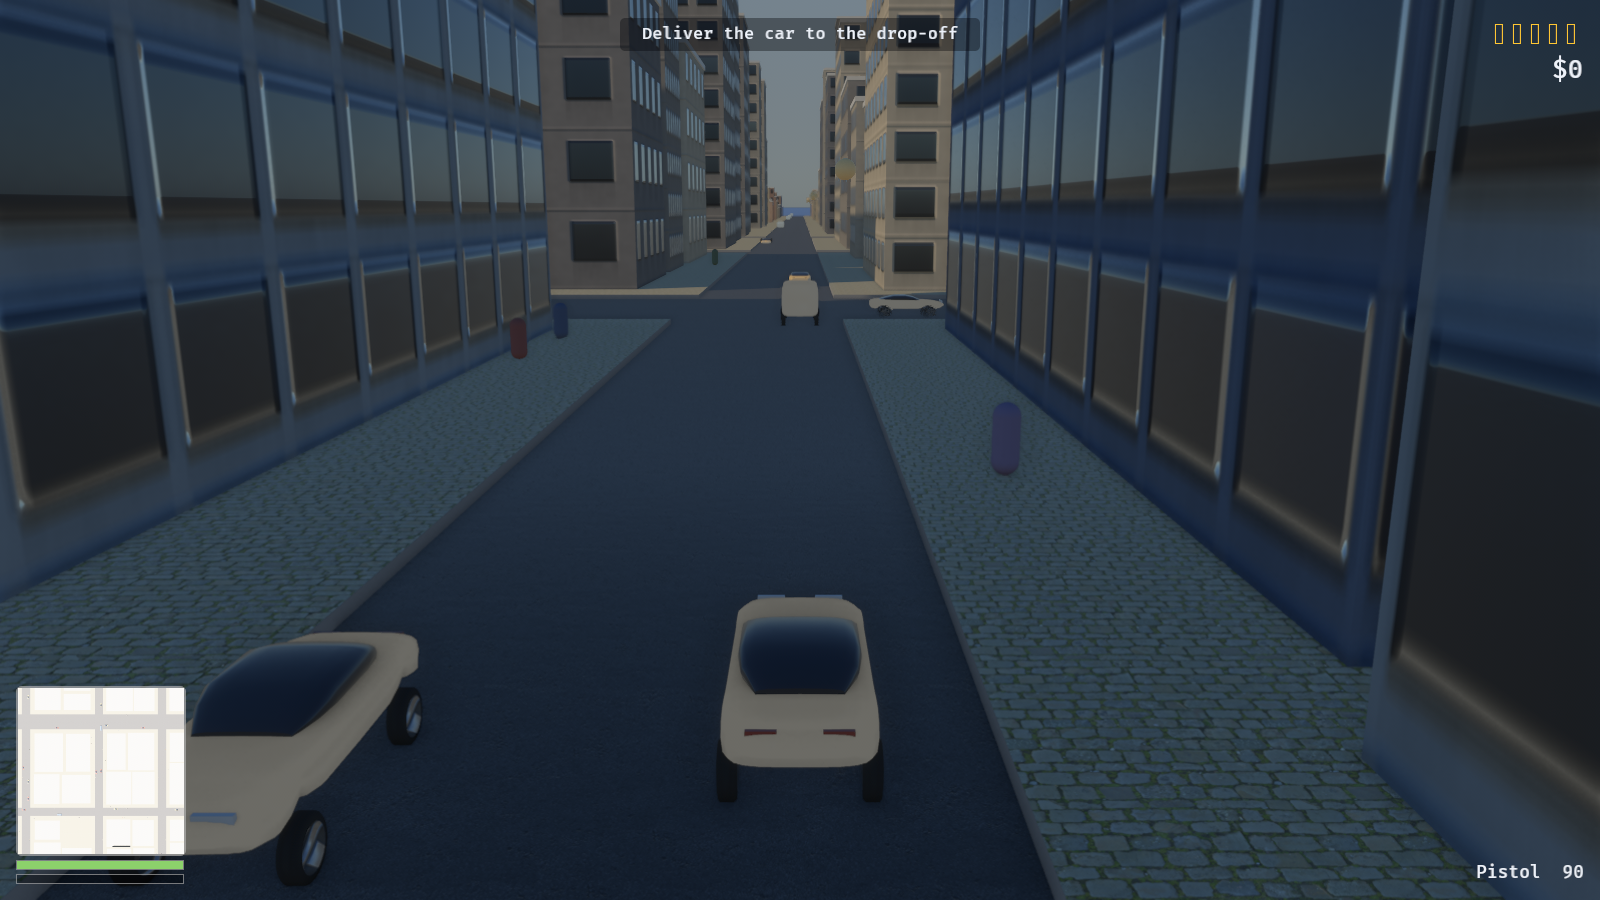
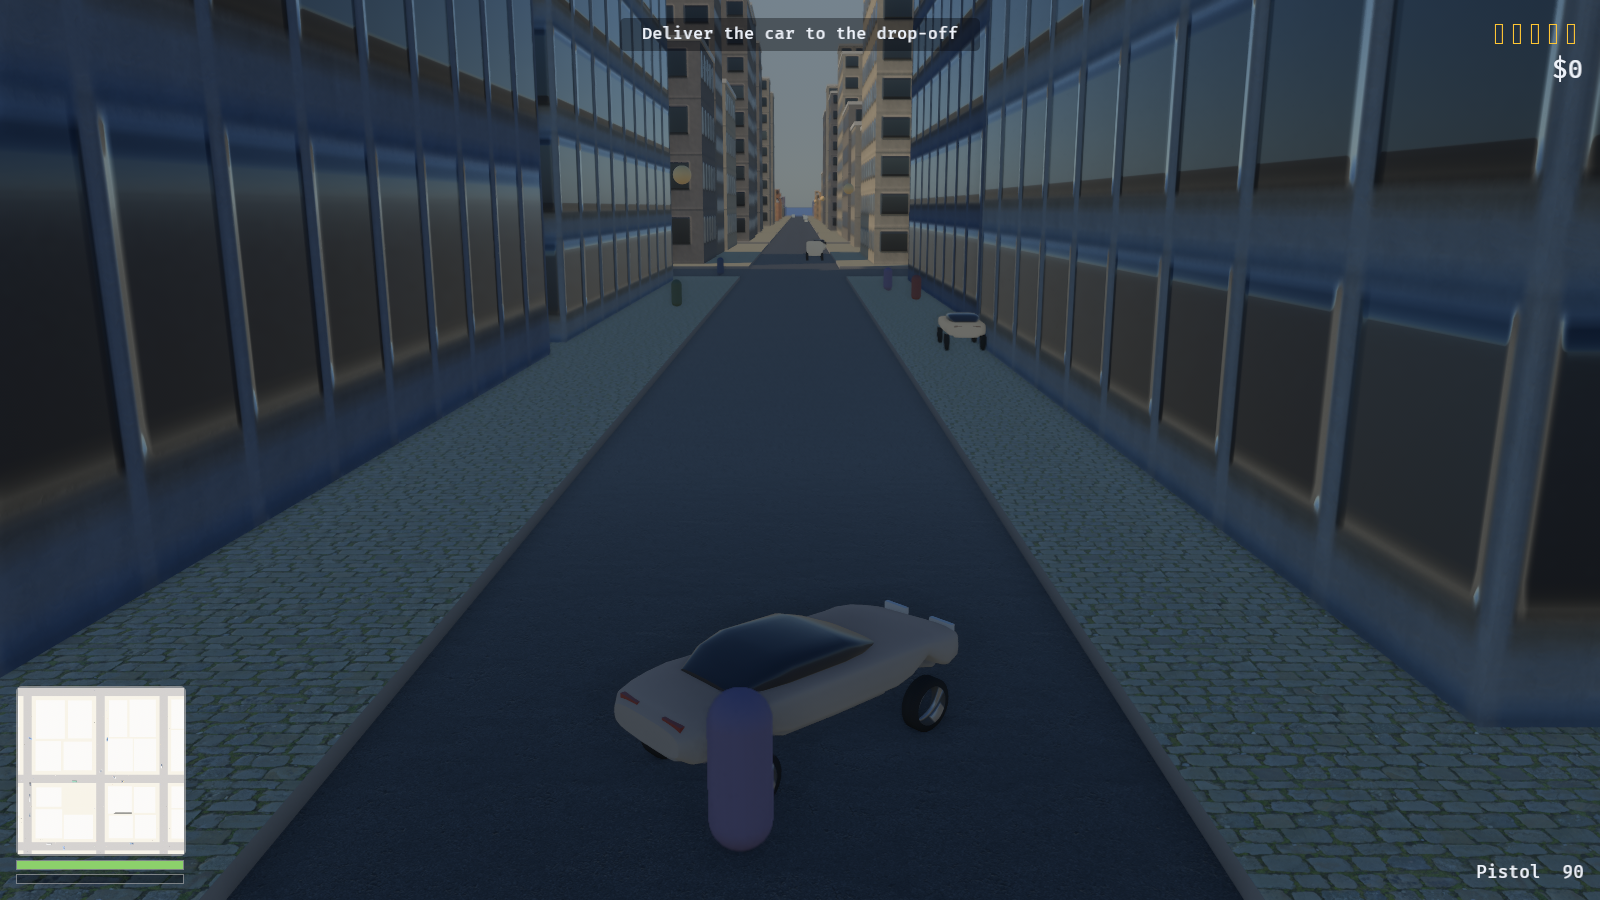
Put scanned brick and concrete on the walls
Facades were the last painted surface, and the reason was structural: the
facade texture has to cover a whole building face to place the windows,
and stretched over forty metres of tower that leaves about fifty pixels
per metre — nowhere near enough for concrete to read as concrete. Tiling
a scan per storey instead would repeat the lit-window pattern with it,
and that is the one thing that must not repeat.

So the two are sampled separately. The painted texture keeps what is
about the building — window positions, which are lit, floor lines — and
`assets/shaders/facade.wgsl` samples a scanned grain on top of it in
world space, at its own true size. World space is what makes it work: the
grain's scale belongs to the world rather than to the building, so a
house and a tower share one material. Anchored to the building it would
need a size bucket per material, and the city's twenty-odd draw calls
would become several hundred.

The shader picks one projection instead of blending three. Every wall
here stands on the street grid, so the dominant axis of the normal is the
plane the wall lies in; there is no diagonal face for a triplanar blend's
seams to appear on, and one projection costs two fetches instead of six.
Glass is masked out by metalness, which the facade's surface map already
carries — no new channel.

The grain is normalised against the texture's own average so it
contributes variation rather than grey, and the district's colour
[…]

diff --git a/src/world/facade.rs b/src/world/facade.rs
@@ -1,0 +1,167 @@
+//! The material buildings are drawn with.
+//!
+//! A [`StandardMaterial`] extended with one thing: a scanned wall grain sampled
+//! in world space rather than in the mesh's UV. See `assets/shaders/facade.wgsl`
+//! for why — briefly, the painted facade texture has to cover a whole building
+//! face to place the windows, and at that coverage there is nowhere near enough
+//! resolution left for the material to read as concrete or brick.
+//!
+//! Sampling the grain in world space means its scale is a property of the world
+//! instead of the building, so a two-storey house and a forty-storey tower can
+//! share one material. Without that the material count picks up a size bucket
+//! dimension, and the city's twenty-odd draw calls become several hundred.
+
+use bevy::pbr::{ExtendedMaterial, MaterialExtension};
+use bevy::prelude::*;
+use bevy::render::render_resource::{AsBindGroup, ShaderType};
+use bevy::shader::{Shader, ShaderRef};
+
+use super::material::{MaterialLibrary, set};
+
+const SHADER: &str = "shaders/facade.wgsl";
+
+/// Metres of wall covered by one repeat of the grain.
+///
+/// Roughly the size the sets were photographed at. Stretching them buys a
+/// slower repeat at the cost of the detail that is the entire reason they are
+/// here.
+const GRAIN_TILE: f32 = 2.2;
+
+#[derive(Clone, Copy, Debug, ShaderType, Reflect)]
+pub struct FacadeSettings {
+    pub tile: f32,
+    /// 0 leaves the painted wall alone; 1 lets the scan swing the wall's colour
+    /// by its own full contrast. Above that it over-swings — darker than
+    /// anything in the photograph, and brighter.
+    pub strength: f32,
+    pub relief: f32,
+    pub _pad: f32,
+}
+
+impl Default for FacadeSettings {
+    fn default() -> Self {
+        Self {
+            tile: GRAIN_TILE,
+            strength: 0.70,
+            relief: 0.90,
+            _pad: 0.0,
+        }
+    }
+}
+
+/// The grain half of a facade material.
+#[derive(Asset, AsBindGroup, Reflect, Clone, Default)]
+pub struct FacadeGrain {
+    #[uniform(100)]
+    pub settings: FacadeSettings,
+    #[texture(101)]
+    #[sampler(102)]
+    pub color: Option<Handle<Image>>,
+    #[texture(103)]
+    #[sampler(104)]
+    pub normal: Option<Handle<Image>>,
+}
+
+impl MaterialExtension for FacadeGrain {
+    fn fragment_shader() -> ShaderRef {
+        SHADER.into()
+    }
+}
+
+/// What every building in the city is drawn with.
+pub type FacadeMaterial = ExtendedMaterial<StandardMaterial, FacadeGrain>;
+
+pub struct FacadePlugin;
+
+impl Plugin for FacadePlugin {
+    fn build(&self, app: &mut App) {
+        app.add_plugins(MaterialPlugin::<FacadeMaterial>::default());
+    }
+}
+
+/// Which scanned set a district's walls are made of.
+///
+/// Only two, because these are the two things a city is actually built from at
+/// this distance. Anything more is a variety problem, not a material one.
+pub fn grain_for(district: super::citygen::District) -> &'static str {
+    use super::citygen::District::*;
+    match district {
+        Residential => set::BRICK,
+        Downtown | Midtown | Industrial | Park => set::CONCRETE,
+    }
+}
+
+impl FacadeGrain {
+    /// The grain for one district, or a bare extension if it was never
+    /// downloaded — in which case the shader multiplies by a white texture and
+    /// the painted facade shows through untouched.
+    pub fn for_district(library: &MaterialLibrary, district: super::citygen::District) -> Self {
+        let scanned = library.get(grain_for(district));
+        Self {
+            settings: FacadeSettings::default(),
+            color: scanned.map(|s| s.color.clone()),
+            normal: scanned.map(|s| s.normal.clone()),
+        }
+    }
+}
+
+/// Loaded so the shader is compiled before the first building is drawn rather
+/// than on the frame one comes into view.
+#[derive(Resource)]
+pub struct FacadeShader(#[allow(dead_code)] Handle<Shader>);
+
+pub fn load_shader(mut commands: Commands, asset_server: Res<AssetServer>) {
+    commands.insert_resource(FacadeShader(asset_server.load(SHADER)));
+}
+
+#[cfg(test)]
+mod tests {
+    use super::super::citygen::District;
+    use super::*;
+
+    #[test]
+    fn brick_goes_on_houses_and_concrete_on_everything_else() {
+        assert_eq!(grain_for(District::Residential), set::BRICK);
+        assert_eq!(grain_for(District::Downtown), set::CONCRETE);
+        assert_eq!(grain_for(District::Industrial), set::CONCRETE);
+    }
+
+    #[test]
+    fn every_district_names_a_set_the_fetch_script_knows() {
+        for district in [
+            District::Downtown,
+            District::Midtown,
+            District::Residential,
+            District::Industrial,
+            District::Park,
+        ] {
+            assert!(
+                set::ALL.contains(&grain_for(district)),
+                "{district:?} asks for a set nothing downloads"
+            );
+        }
+    }
+
+    #[test]
+    fn the_grain_is_tiled_at_roughly_the_size_it_was_photographed() {
+        let settings = FacadeSettings::default();
+        assert!(
+            (1.0..=4.0).contains(&settings.tile),
+            "a wall grain tiled at {}m is either mush or wallpaper",
+            settings.tile
+        );
+        // The shader mixes towards the scan's own contrast, so anything above
+        // 1 over-swings: the wall would go darker than the darkest thing in the
+        // photograph and brighter than the brightest.
+        assert!(
+            (0.0..=1.0).contains(&settings.strength),
+            "grain strength {} is outside what the mix can mean",
+            settings.strength
+        );
+        assert!(
+            (0.0..=2.0).contains(&settings.relief),
+            "relief {} would tilt the surface past the wall it sits on",
+            settings.relief
+        );
+    }
+}

diff --git a/src/world/buildings.rs b/src/world/buildings.rs
@@ -52,7 +52,7 @@ pub struct CityAssets {
     /// A 1x1 quad in the XZ plane, laid over each block as its walking surface.
     unit_quad: Handle<Mesh>,
     /// Indexed by `(district_index * PALETTE_SIZE + palette) * CLASS_COUNT + class`.
-    building: Vec<Handle<StandardMaterial>>,
+    building: Vec<Handle<super::facade::FacadeMaterial>>,
     roof: Handle<StandardMaterial>,
     kerb: Handle<StandardMaterial>,
     park_kerb: Handle<StandardMaterial>,
@@ -202,6 +202,7 @@ pub fn build_assets(
     materials: &mut Assets<StandardMaterial>,
     images: &mut Assets<Image>,
     library: &super::material::MaterialLibrary,
+    facades_out: &mut Assets<super::facade::FacadeMaterial>,
 ) -> CityAssets {
     let districts = [
         District::Downtown,
@@ -228,19 +229,25 @@ pub fn build_assets(
 
     let mut building = Vec::with_capacity(districts.len() * PALETTE_SIZE as usize * CLASS_COUNT);
     for district in districts {
+        // The wall grain is a property of the district, not of the building:
+        // houses are brick, everything else is concrete.
+        let grain = super::facade::FacadeGrain::for_district(library, district);
         for color in palette(district) {
             for (base, emissive, surface, normal) in &facades {
-                building.push(materials.add(StandardMaterial {
-                    base_color: color,
-                    base_color_texture: Some(base.clone()),
-                    emissive_texture: Some(emissive.clone()),
-                    // Dark until dusk; `timeofday::light_windows` drives it.
-                    emissive: LinearRgba::BLACK,
-                    metallic_roughness_texture: Some(surface.clone()),
-                    normal_map_texture: Some(normal.clone()),
-                    perceptual_roughness: 1.0,
-                    metallic: 1.0,
-                    ..default()
+                building.push(facades_out.add(super::facade::FacadeMaterial {
+                    base: StandardMaterial {
+                        base_color: color,
+                        base_color_texture: Some(base.clone()),
+                        emissive_texture: Some(emissive.clone()),
+                        // Dark until dusk; `timeofday::light_windows` drives it.
+                        emissive: LinearRgba::BLACK,
+                        metallic_roughness_texture: Some(surface.clone()),
+                        normal_map_texture: Some(normal.clone()),
+                        perceptual_roughness: 1.0,
+                        metallic: 1.0,
+                        ..default()
+                    },
+                    extension: grain.clone(),
                 }));
             }
         }
@@ -334,14 +341,14 @@ impl CityAssets {
         district: District,
         palette: u8,
         class: FacadeClass,
-    ) -> Handle<StandardMaterial> {
+    ) -> Handle<super::facade::FacadeMaterial> {
         let slot = district_index(district) * PALETTE_SIZE as usize + palette as usize;
         let i = slot * CLASS_COUNT + class.index();
         self.building[i.min(self.building.len() - 1)].clone()
     }
 
     /// Every facade material, for the day/night cycle to light up.
-    pub fn building_materials(&self) -> &[Handle<StandardMaterial>] {
+    pub fn building_materials(&self) -> &[Handle<super::facade::FacadeMaterial>] {
         &self.building
     }
 }

diff --git a/src/world/mod.rs b/src/world/mod.rs
@@ -2,6 +2,7 @@
 
 pub mod buildings;
 pub mod citygen;
+pub mod facade;
 pub mod material;
 pub mod roadgraph;
 pub mod streaming;
@@ -26,11 +27,13 @@ impl Plugin for WorldPlugin {
         app.add_plugins((
             PhysicsPlugins::default(),
             material::MaterialLibraryPlugin,
+            facade::FacadePlugin,
             timeofday::TimeOfDayPlugin,
             streetlights::StreetLightPlugin,
         ))
         .init_resource::<streaming::ActiveChunks>()
         .init_resource::<streaming::StreamTimer>()
+        .add_systems(PreStartup, facade::load_shader)
         .add_systems(Startup, (generate_city, setup_ground))
         .add_systems(Update, streaming::update_streaming);
     }
@@ -43,6 +46,7 @@ fn generate_city(
     mut materials: ResMut<Assets<StandardMaterial>>,
     mut images: ResMut<Assets<Image>>,
     library: Res<material::MaterialLibrary>,
+    mut facades: ResMut<Assets<facade::FacadeMaterial>>,
 ) {
     let started = std::time::Instant::now();
     let layout = citygen::generate(config.world_seed, config.world.half_extent);
@@ -64,6 +68,7 @@ fn generate_city(
         &mut materials,
         &mut images,
         &library,
+        &mut facades,
     ));
 }
 

diff --git a/src/world/timeofday.rs b/src/world/timeofday.rs
@@ -209,7 +209,7 @@ fn apply_sky(
 fn light_windows(
     clock: Res<TimeOfDay>,
     assets: Option<Res<CityAssets>>,
-    mut materials: ResMut<Assets<StandardMaterial>>,
+    mut materials: ResMut<Assets<crate::world::facade::FacadeMaterial>>,
     mut applied: Local<Option<f32>>,
 ) {
     // The city is generated a frame or two before this first runs.
@@ -225,7 +225,7 @@ fn light_windows(
     let glow = level * WINDOW_GLOW;
     for handle in assets.building_materials() {
         if let Some(mut material) = materials.get_mut(handle) {
-            material.emissive = LinearRgba::rgb(glow, glow, glow);
+            material.base.emissive = LinearRgba::rgb(glow, glow, glow);
         }
     }
 }

diff --git a/README.md b/README.md
@@ -141,10 +141,20 @@ the panes are genuinely recessed, and an emissive mask marking which windows
 are lit. `timeofday` ramps the emissive strength, which is why the city fills
 with light at dusk without a single extra light source.
 
-Facades are still painted rather than scanned. A scan cannot be stretched over
-a whole tower face without smearing, and tiling it per storey would repeat the
-lit-window pattern with it — which is the one thing that must not repeat. Doing
-both needs a material with a second, independent detail UV.
+Facades get both. The painted texture holds what is *about* the building —
+where the windows are, which are lit, where the floor lines fall — and a
+scanned brick or concrete grain is sampled on top of it in **world space**,
+through `assets/shaders/facade.wgsl`. Sampling in world space rather than in
+the mesh's UV is what makes it work: the grain's scale belongs to the world, so
+a two-storey house and a forty-storey tower share one material. Anchoring it to
+the building instead would need a size bucket per material and take the city
+from twenty-odd draw calls to several hundred.
+
+The shader picks one projection rather than blending three. Every wall in this
+city stands on the street grid, so the dominant axis of the normal *is* the
+plane the wall lies in — there is no diagonal face for a triplanar blend's
+seams to show up on. Glass is masked out by metalness, which the facade's own
+surface map already carries.
 
 ## Vehicles
 
@@ -201,6 +211,7 @@ pursuit, and everything but the player's own car is positioned in the world.
   Scanning them needs a custom material with a detail UV; see above.
 - Bodywork has no crease lines. The cross-sections give a shoulder that turns
   quickly, which reads as one, but nothing in the mesh is a hard edge.
+- One scanned set per surface, so a whole district is built of the same brick.
 - Damage does not change how a car collides: dents move metal, never the box
   the physics uses. Rebuilding a convex hull per impact is the alternative.
-- There is one scanned set per surface, so a whole district paves identically.
+
